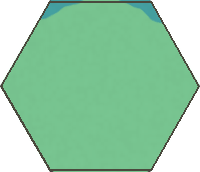
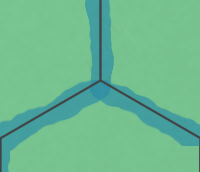
Improve stream terrain swatch

diff --git a/Tools/generate_assets.py b/Tools/generate_assets.py
@@ -488,10 +488,13 @@ swatch_hexes = {
     "clear": "1312",
     "ridge": "0923",
     "marsh": "1101",
-    "stream": "0303",
     "woods": "2311",
     "road": "1508",
 }
+# A crop centered on the west-stream junction shows the water on three shared
+# hex edges. A single-hex crop only catches the stream at the outer edge, where
+# it is nearly indistinguishable from the swatch outline at chart size.
+swatch_centers = {"stream": (150, 605)}
 TERRAIN_SWATCHES.mkdir(parents=True, exist_ok=True)
 mask_scale = 4
 mask = Image.new("L", (200 * mask_scale, 172 * mask_scale))
@@ -502,16 +505,21 @@ mask_draw.polygon([(50 * mask_scale, 0), (150 * mask_scale, 0),
                    (50 * mask_scale, 172 * mask_scale - 1),
                    (0, 86 * mask_scale)], fill=255)
 mask = mask.resize((200, 172), Image.Resampling.LANCZOS)
-for name, ident in swatch_hexes.items():
-    hex_data = hexes[ident]
-    center_x = round(hex_data["x"] * 2)
-    center_y = round(hex_data["y"] * 2)
+for name in (*swatch_hexes, *swatch_centers):
+    if name in swatch_centers:
+        source_x, source_y = swatch_centers[name]
+    else:
+        hex_data = hexes[swatch_hexes[name]]
+        source_x, source_y = hex_data["x"], hex_data["y"]
+    center_x = round(source_x * 2)
+    center_y = round(source_y * 2)
     swatch = base.crop((center_x - 100, center_y - 86,
                         center_x + 100, center_y + 86))
-    swatch.putalpha(mask)
-    ImageDraw.Draw(swatch).line([(50, 1), (150, 1), (198, 86),
-                                  (150, 170), (50, 170), (1, 86), (50, 1)],
-                                 fill=(59, 58, 45, 235), width=2, joint="curve")
+    if name != "stream":
+        swatch.putalpha(mask)
+        ImageDraw.Draw(swatch).line([(50, 1), (150, 1), (198, 86),
+                                      (150, 170), (50, 170), (1, 86), (50, 1)],
+                                     fill=(59, 58, 45, 235), width=2, joint="curve")
     swatch.save(TERRAIN_SWATCHES / f"{name}.png", optimize=True)
 
 print(f"Generated {len(hexes)} hexes, {len(edges)}, {TEXTURE.name}, and terrain swatches")
